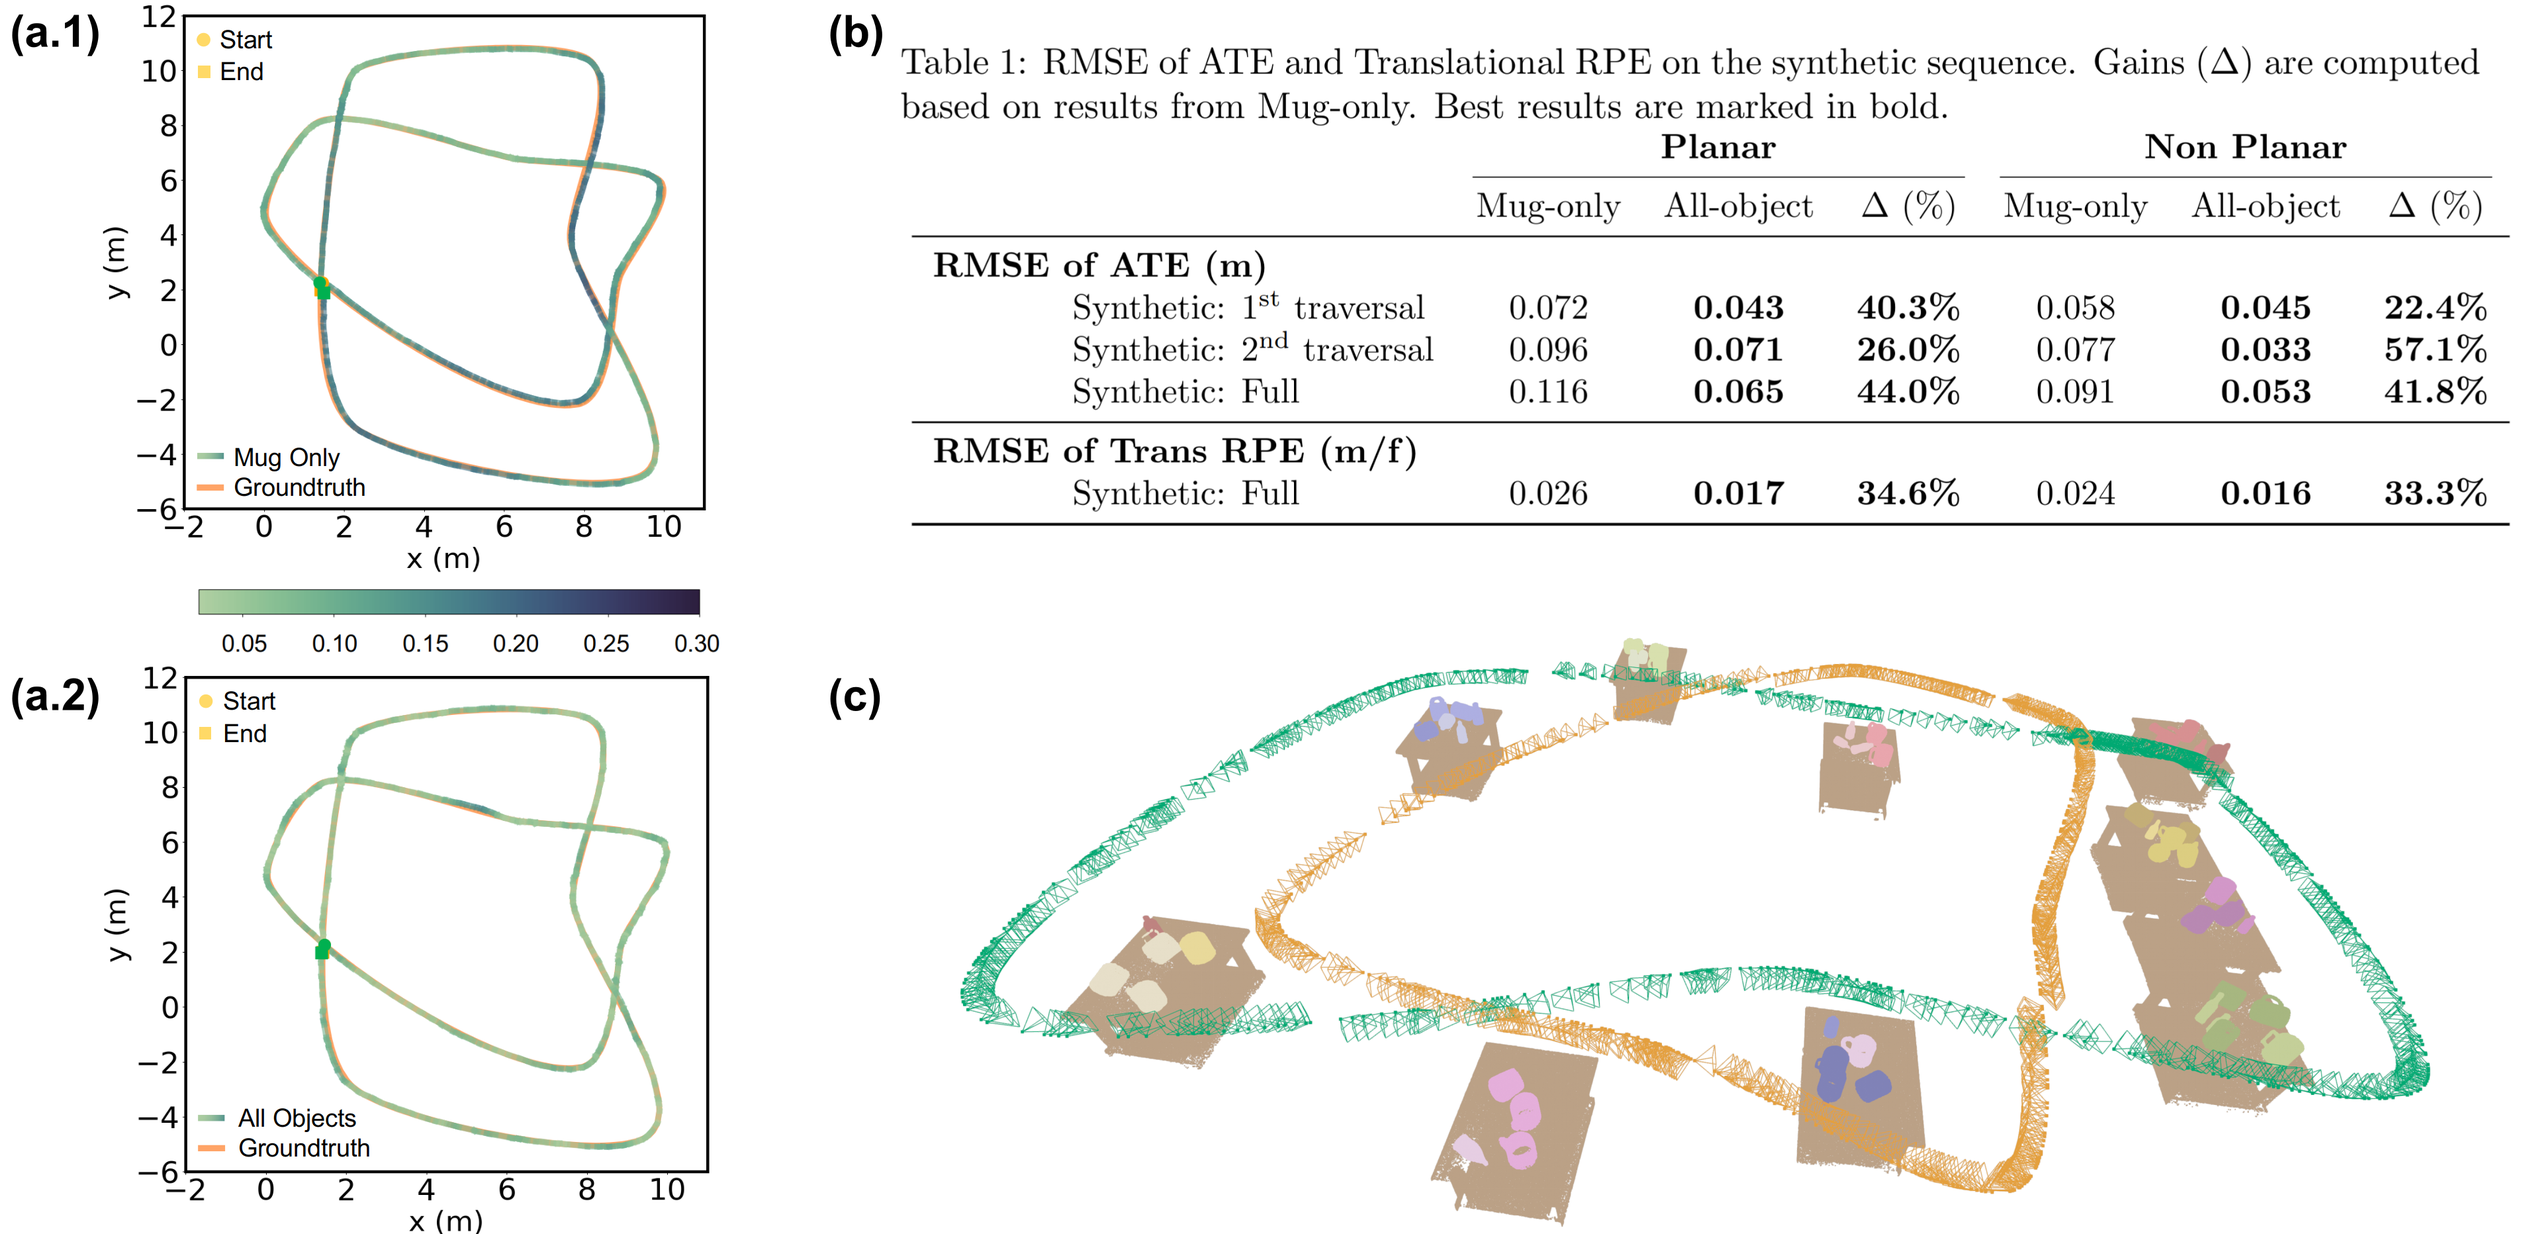
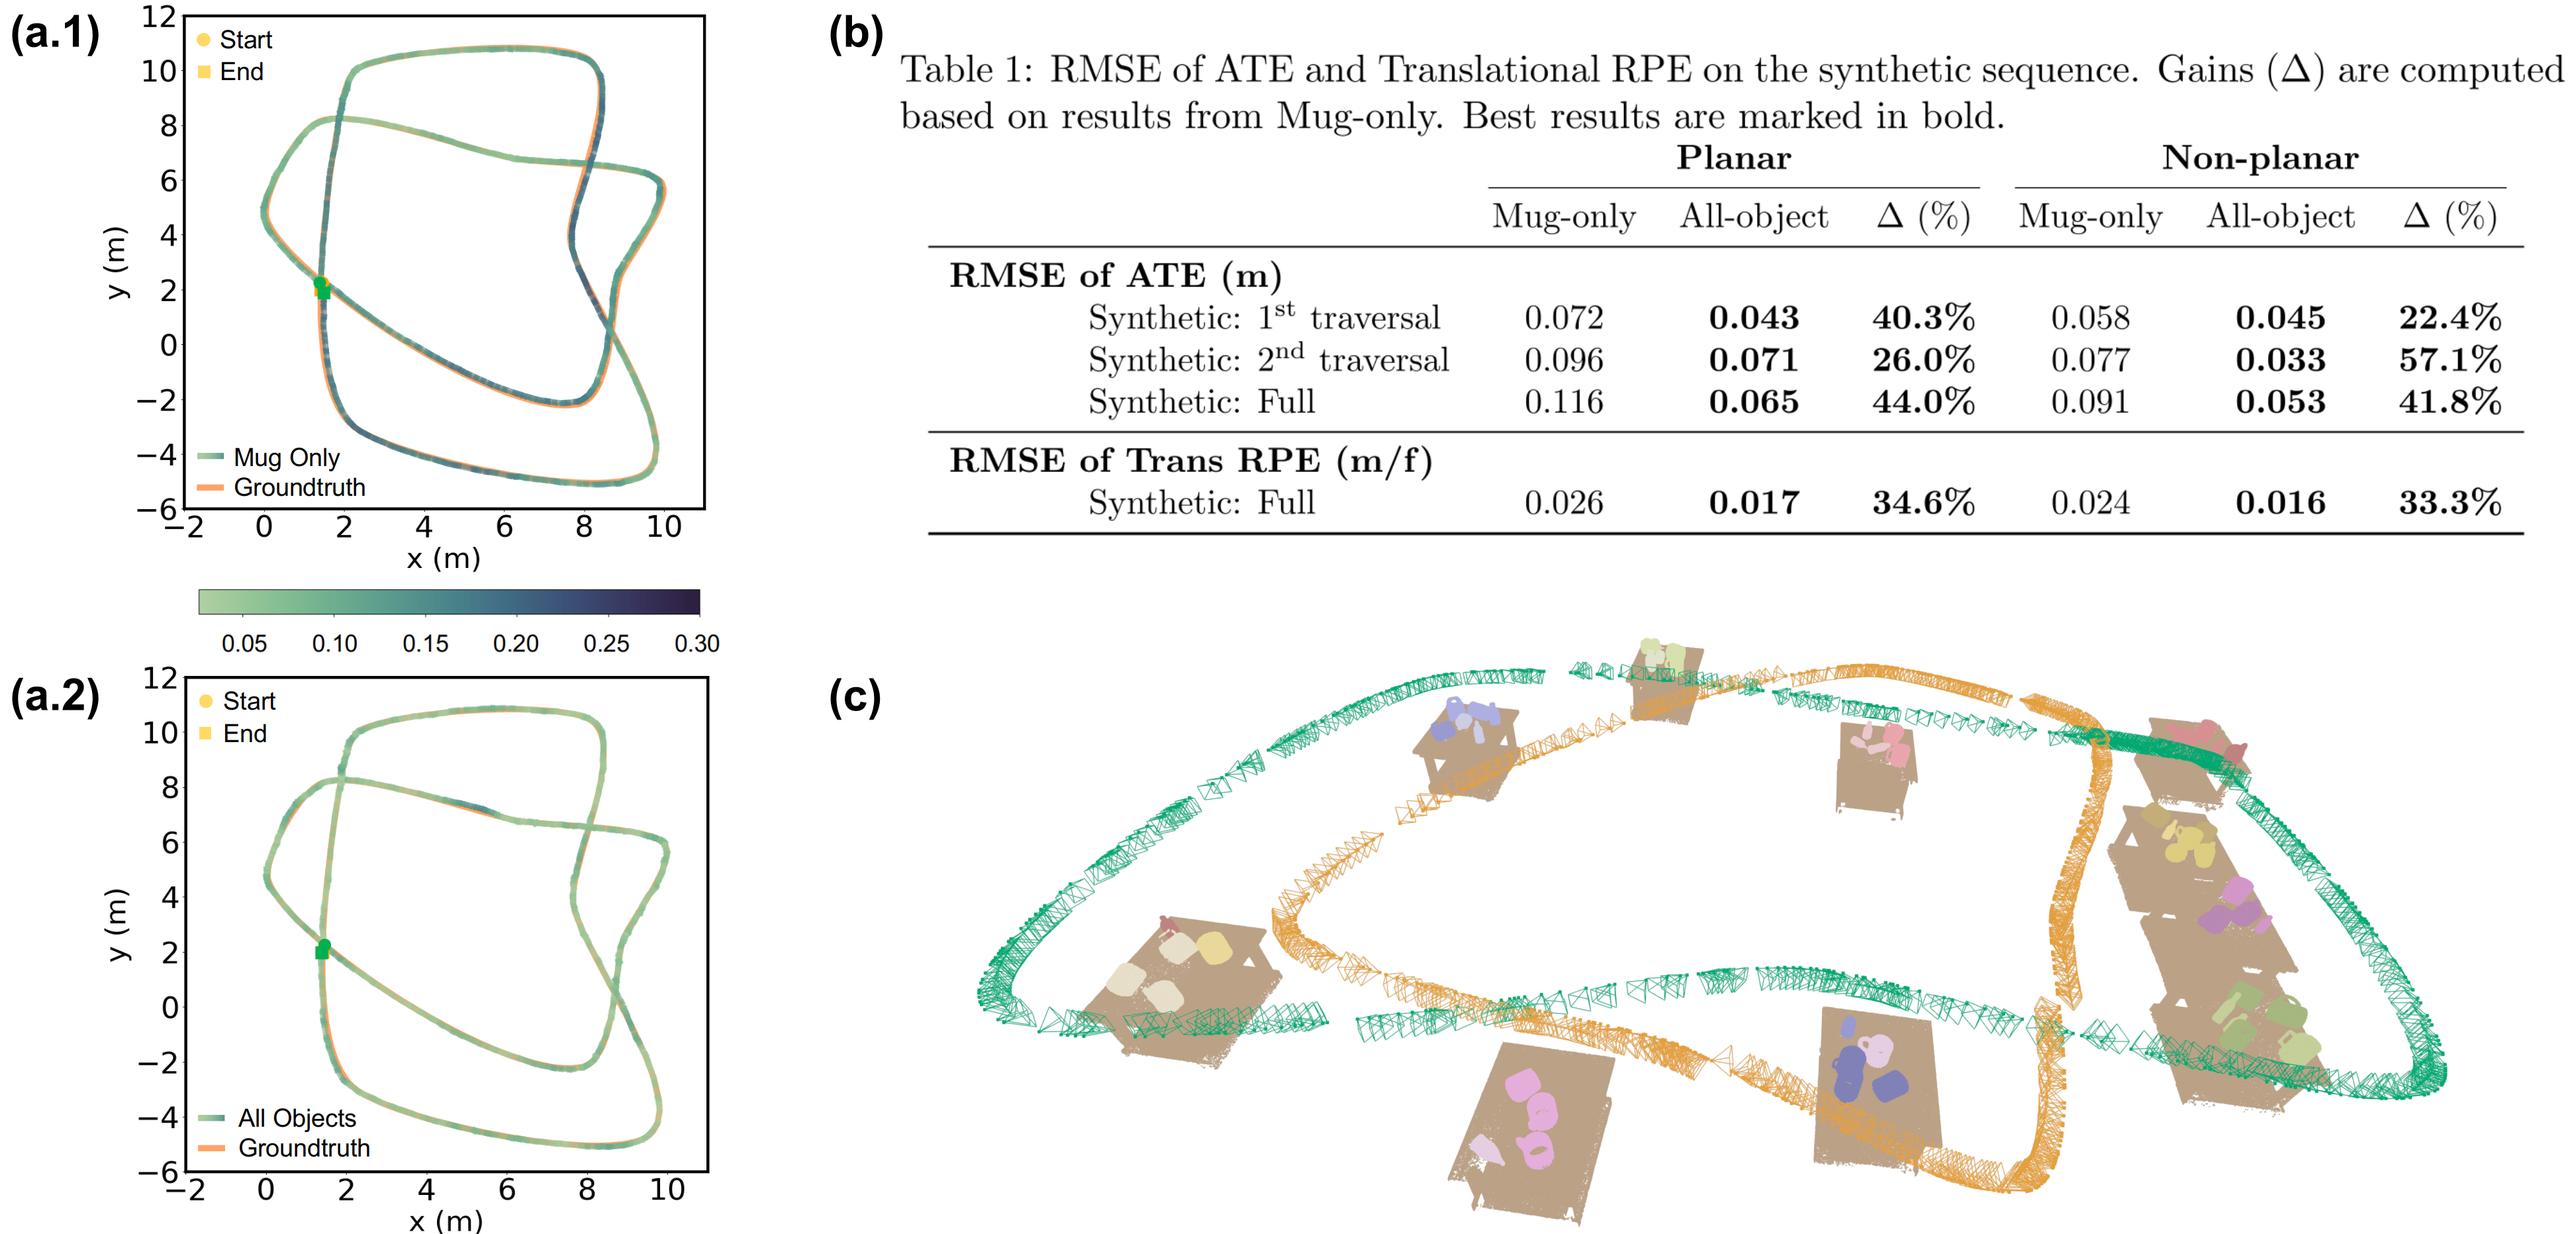
initial commit

diff --git a/index.html b/index.html
@@ -31,11 +31,11 @@
 </div>
 
 <div class="container">
-    <p>We thank all reviewers for their comments. As part of
-        authors' reponse to reviewers, this webpage provides additional results on:<br>
+    <p>We thank all reviewers for their comments. As part of the authors' response to reviewers, this webpage provides
+        additional results on the following:<br>
         <b>(1)</b> SLAM results with a synthetic non-planar object layout setting with diverse object orientations.
         <br>
-        <b>(2)</b> Comparison results of the selected EM-Fusion baseline on our real-world sequences.</p>
+        <b>(2)</b> Comparison of the chosen EM-Fusion baseline results on our real-world sequences.</p>
     <div class="section">
         <h3>I. Experiment: Non-planar Object Layout with Various Orientations</h3>
         <br>
@@ -52,13 +52,13 @@
         The above video showcases scene and trajectory data featuring a <b>non-planar, randomly oriented</b> object
         setup. The sequence
         is utilized to evaluate the effectiveness of the proposed NeuSE-based object SLAM strategy. We found that
-        existing off-the-shelf semantic segmentors were unable to detect non-upright posed mugs and bottles in
+        existing off-the-shelf semantic segmentors could not detect non-upright posed mugs and bottles in
         real video and thus conducted our experiment in simulation.
         <br>
-        In addition to the previous experiment settings outlined in Section V.A, which included various viewing angles,
+        In addition to the previous experiment settings outlined in Section V.A., which included various viewing angles,
         occlusion patterns, and object changes, we further randomly placed approximately 50% of the bottles and mugs (25
-        out of 52 objects) in the previous synthetic sequence. This resulted in a "hilly" object layout as shown in the
-        video with a variety of mug and bottle orientations, making the sequence suitable for examining the proposed
+        out of 52 objects) in the previous synthetic sequence. This resulted in a "hilly" object layout, as shown in the
+        video, with various mug and bottle orientations, making the sequence suitable for examining the proposed
         SE(3)-equivariance of NeuSE.
     </p>
     <hr>
@@ -74,37 +74,36 @@
             <b>(a.1)-(a.2)</b>: Visualization of the trajectory estimates with color variation to indicate the ATE
             values. The proposed algorithm manages to give a qualitatively shape-consistent trajectory estimate
             from a non-planar object layout. <br>
-            <b>(b)</b>: As shown in the "Non Planar" section of the table, in terms of adopted metrics, Absolute
+            <b>(b)</b>: As shown in the "Non-planar" section of the table, in terms of adopted metrics, Absolute
             Trajectory Error
             (ATE) and translational Relative Pose Error (RPE), the proposed
             strategy
-            turns out to perform better on the new randomly-oriented object sequence. This can be attributed to: <br>
+            turns out to perform better on the new randomly-oriented object sequence. This can be attributed to the
+            following: <br>
             (1) Our
             training strategy involves generating training samples that provide a view of the object of interest
             from various angles, along with occlusion patterns from surrounding auxiliary objects. This enables the
             learning of the underlying geometric features of the category shape that are robust to new occlusion
             scenarios.
             <br>
-            (2) The learned representation is SE(3)-equivariant by construction,meaning that knowledge learned from
+            (2) The learned representation is SE(3)-equivariant by construction, meaning that knowledge learned from
             upright observations can also benefit processing laid down objects. This property further enhances the
             model's ability to generalize to new scenarios.
             <br>
-            (3) The use of lying-down mugs in the dataset turn out to help reduce the shape ambiguity in the sequence as
-            their handles
-            can be more frequently observed when pointing upwards than in the usual sideways direction.
+            (3) The use of lying-down mugs in the dataset turns out to help reduce the shape ambiguity in the sequence,
+            as their handles can be more frequently observed when pointing upwards than in the usual sideways direction.
             <br>
 
             <b>(c)</b>: Full scene reconstruction of all objects in the sequence along with the better "All Objects"
-            trajectory estimate. This indicates NeuSE's reconstruction
-            capability for objects with various orientations, as well as the spatial consistency of the reconstruction
-            and camera trajectory estimate.
+            trajectory estimate. This indicates NeuSE's reconstruction capability for objects with various orientations
+            and the spatial consistency of the reconstruction and camera trajectory estimate.
         </p>
     </div>
     <hr>
     <div class="section">
         <h3>II. Comparison with EM-Fusion on Real-world Sequences</h3>
         <br>
-        <h4>A. Choise of EM-Fusion as Baseline</h4>
+        <h4>A. Choice of EM-Fusion as Baseline</h4>
         <p>
             We choose to evaluate the self-collected real-world sequences on <b>EM-Fusion</b>[1], an object-level SLAM
             approach that
@@ -112,8 +111,8 @@
             localization.
             <br>
             EM-Fusion is selected as one baseline to our RGB-D object SLAM approach for being an open-sourced object
-            SLAM strategy that also
-            allows for direct evaluation without the need for additional training. It is important to note that since
+            SLAM strategy that allows for direct evaluation without additional training. It is important to note that
+            since
             Kimera [2], as suggested by Reviewer #3, operates with inertial (IMU) and visual data from mono and stereo
             cameras, it is of a different data modality than our approach (RGB-D). With no focus on inertial data in our
             algorithm, it is not considered a
@@ -145,38 +144,38 @@
             <br>
             <b>(a)</b>: Quantitative comparison in terms of Absolute Trajectory Error (ATE) of EM-Fusion (the last
             column) against results of all other
-            variants presented by our paper. In terms of the ATE values, EM-Fusion performs much worse compared to its NeuSE- or ORB-
-            based counterparts.
+            variants presented by our paper. Regarding the ATE values, EM-Fusion performs much worse than its NeuSE- or
+            ORB- based counterparts.
             <br>
             <b>(b.1)-(b.2)</b>: Visualization of EM-Fusion trajectory estimates on the 4-Round and Triple-Infinity loop.
             The darker color parts, indicating obvious drift around turning corner regions, showcase EM-Fusion's
             incapability in dealing with larger
-            multi-table-top setting and susceptibility to fast rotation motion.
+            multi-table-top settings and susceptibility to fast rotation motion.
             <br>
             With <b>(a)</b> and <b>(b)</b>, we can see that EM-Fusion performs poorly on our real-world testing
             sequences, resulting in bumpy trajectory estimates with significant drift around table corners with sharper
             turning motion.
             <br>
-            While it is able to deal with dynamics at frame intersections when our long-term scene
+            While it can deal with dynamics at frame intersections when our long-term scene
             layout changes, its poor performance is primarily attributed to the compromise between tracking accuracy and
             memory consumption and the accumulated drift when less object overlap is available. In order to maintain a
             finer SDF background volume (voxel size of 1 cm for a 5<sup>3</sup> m<sup>3</sup> space) for better tracking
             accuracy,
             the machine
             can easily run out of memory due to SDF volume instantiation. Therefore, EM-Fusion's effective continuous
-            operating area is limited to roughly the size of a tabletop. To enable EM-Fusion to go through the whole
+            operating area is limited to roughly a tabletop size. To enable EM-Fusion to go through the whole
             sequence where the robot drives through five tabletops, the SDF volume resolution is slightly tuned, and the
             whole sequence is divided into several overlapping shorter sessions, from where the estimates are aligned
             and
             concatenated to obtain the final estimate.
             <br>
             <b>(c)</b>: Visualization of the <span style="color:green"> estimation drift </span> against the <span
-                style="color:orange">ground truth </span>. EM-Fusion suffers from heavier drift, as a result of faster
-            motions around the corners and hence less object overlap for camera pose estimation.
+                style="color:orange">ground truth</span>. EM-Fusion suffers from heavier drift due to faster
+            motions around the corners, and hence less object overlap for camera pose estimation.
             <br>
             In contrast to EM-Fusion, NeuSE represents objects as a compact point cloud surrogate (whose size is usually
-            of only a
-            few hundred). NeuSE allows for the full object shape to be encoded across viewing angles, making the
+            only a
+            few hundred). NeuSE allows the full object shape to be encoded across viewing angles, making the
             algorithm less vulnerable to observation overlap during data association. Furthermore, the compact
             representation of objects in NeuSE makes it lightweight enough to function effectively within larger
             environments, making it a more practical option for real-world applications.
